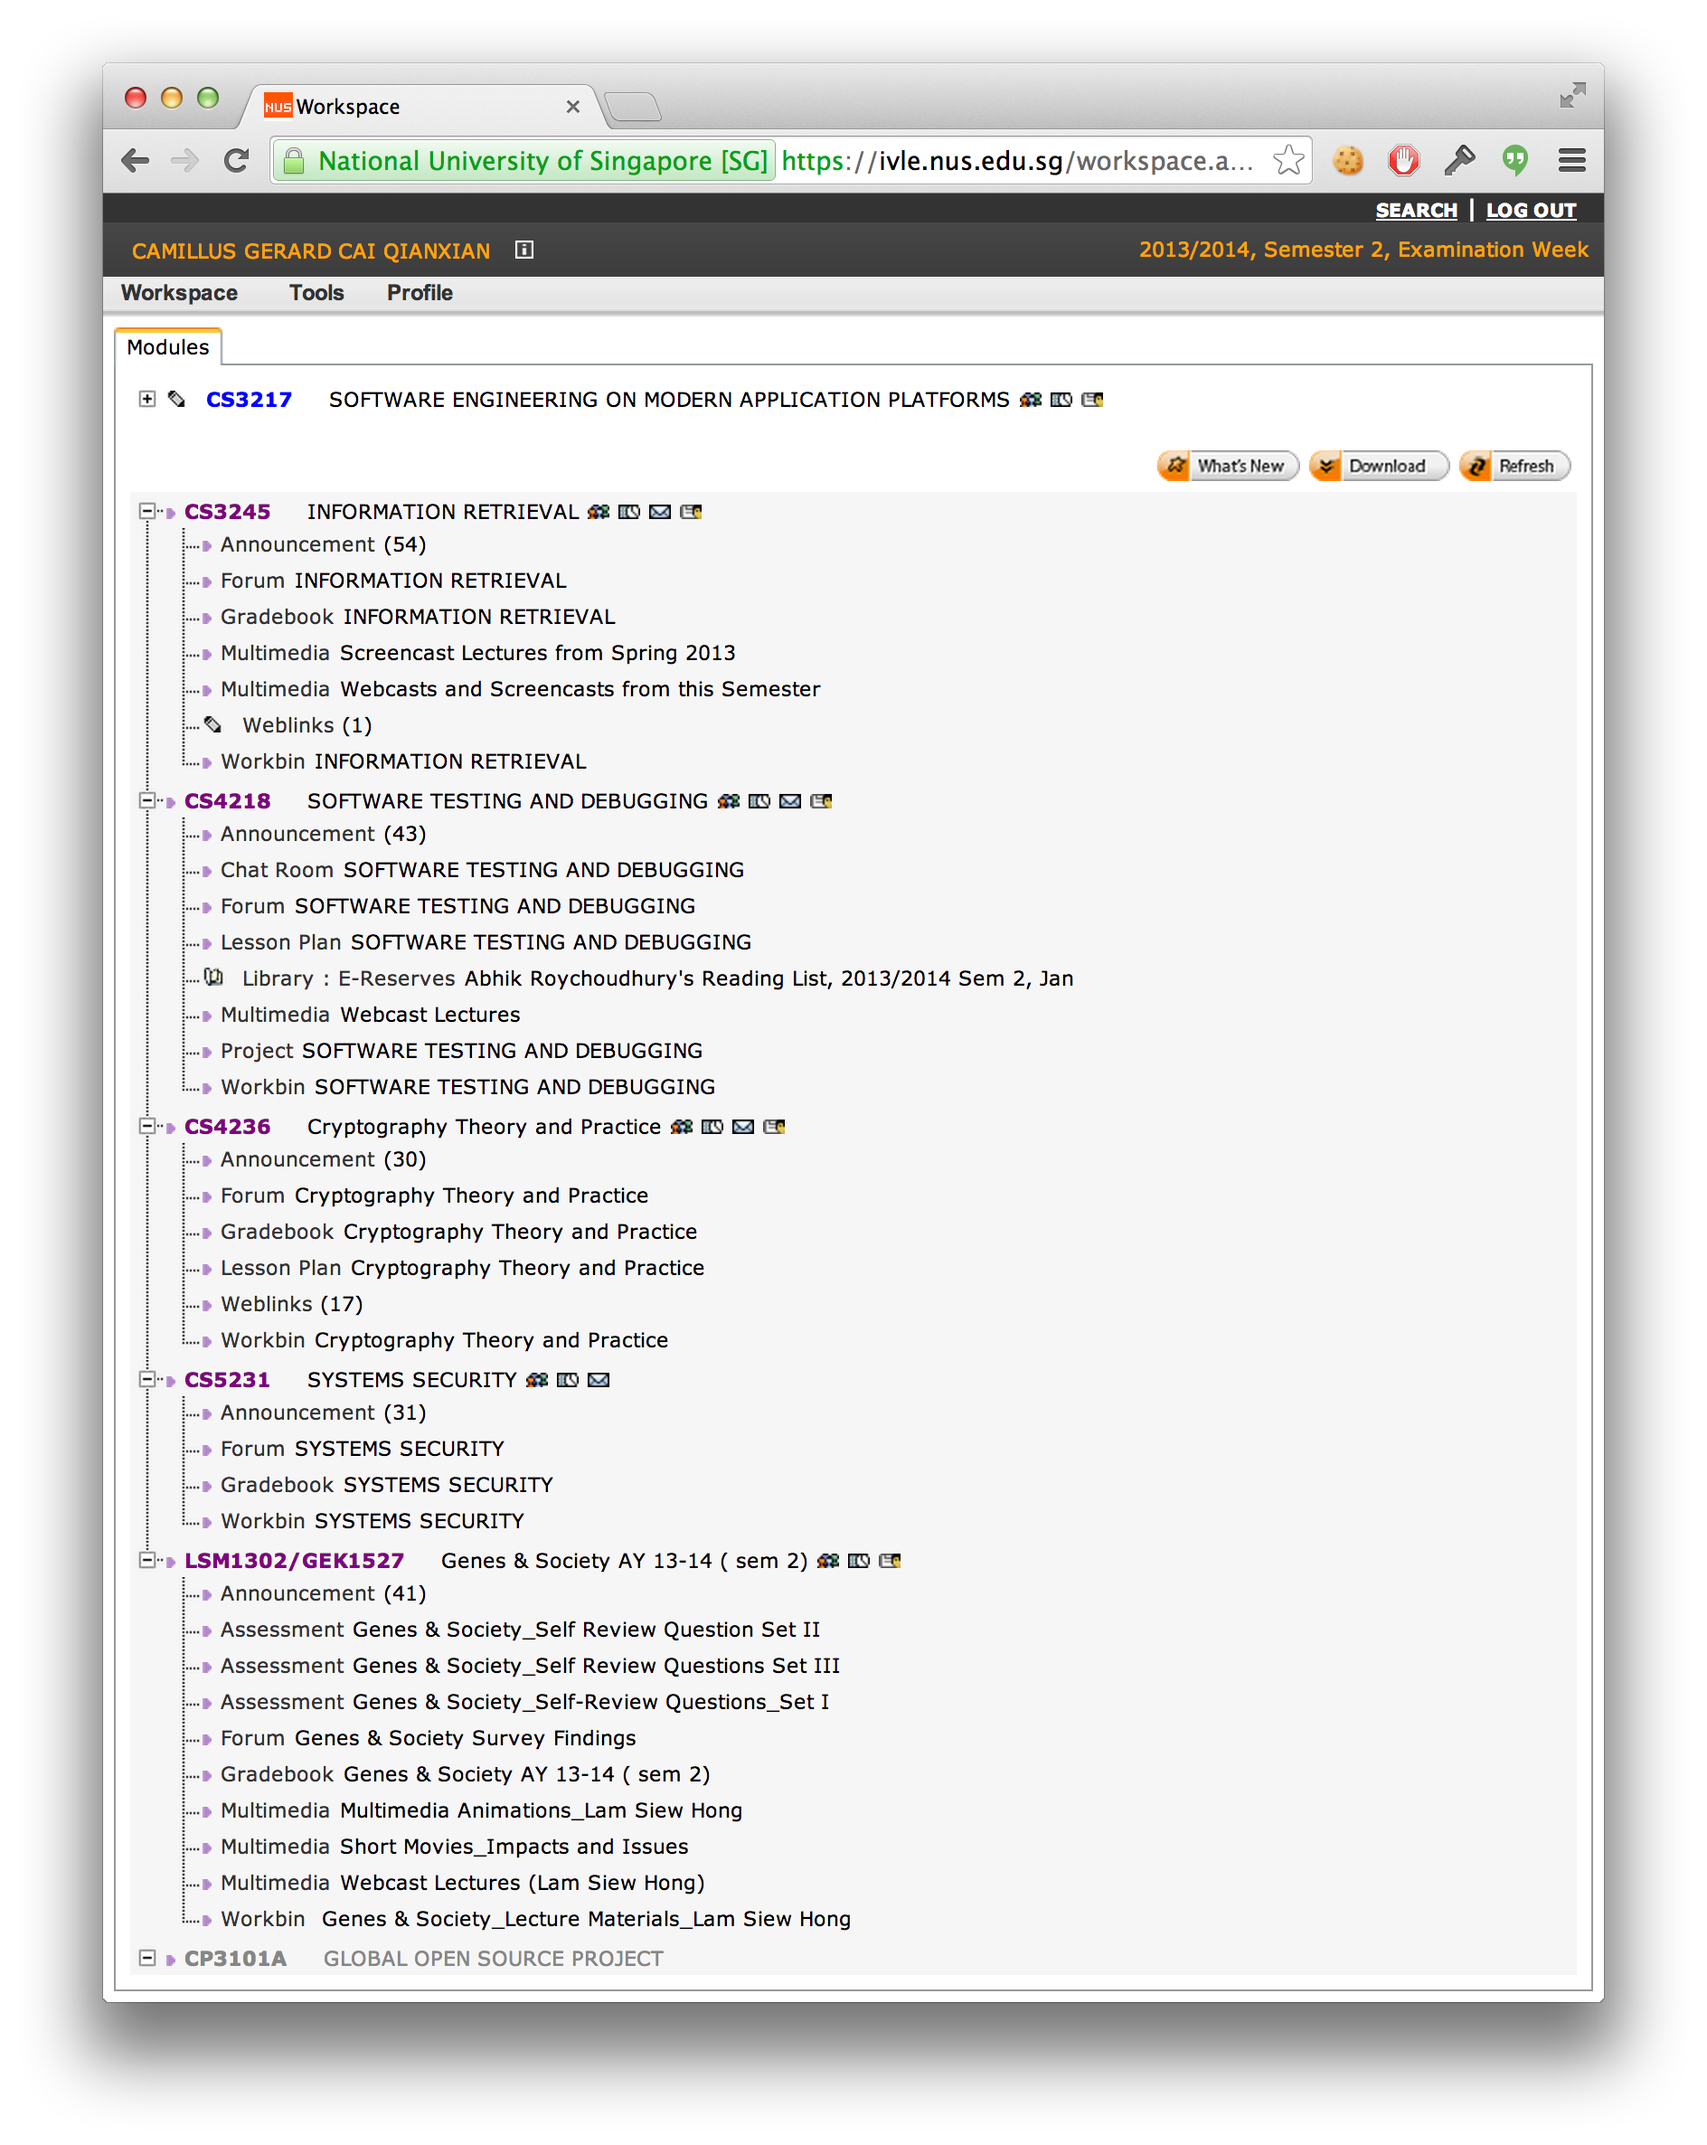
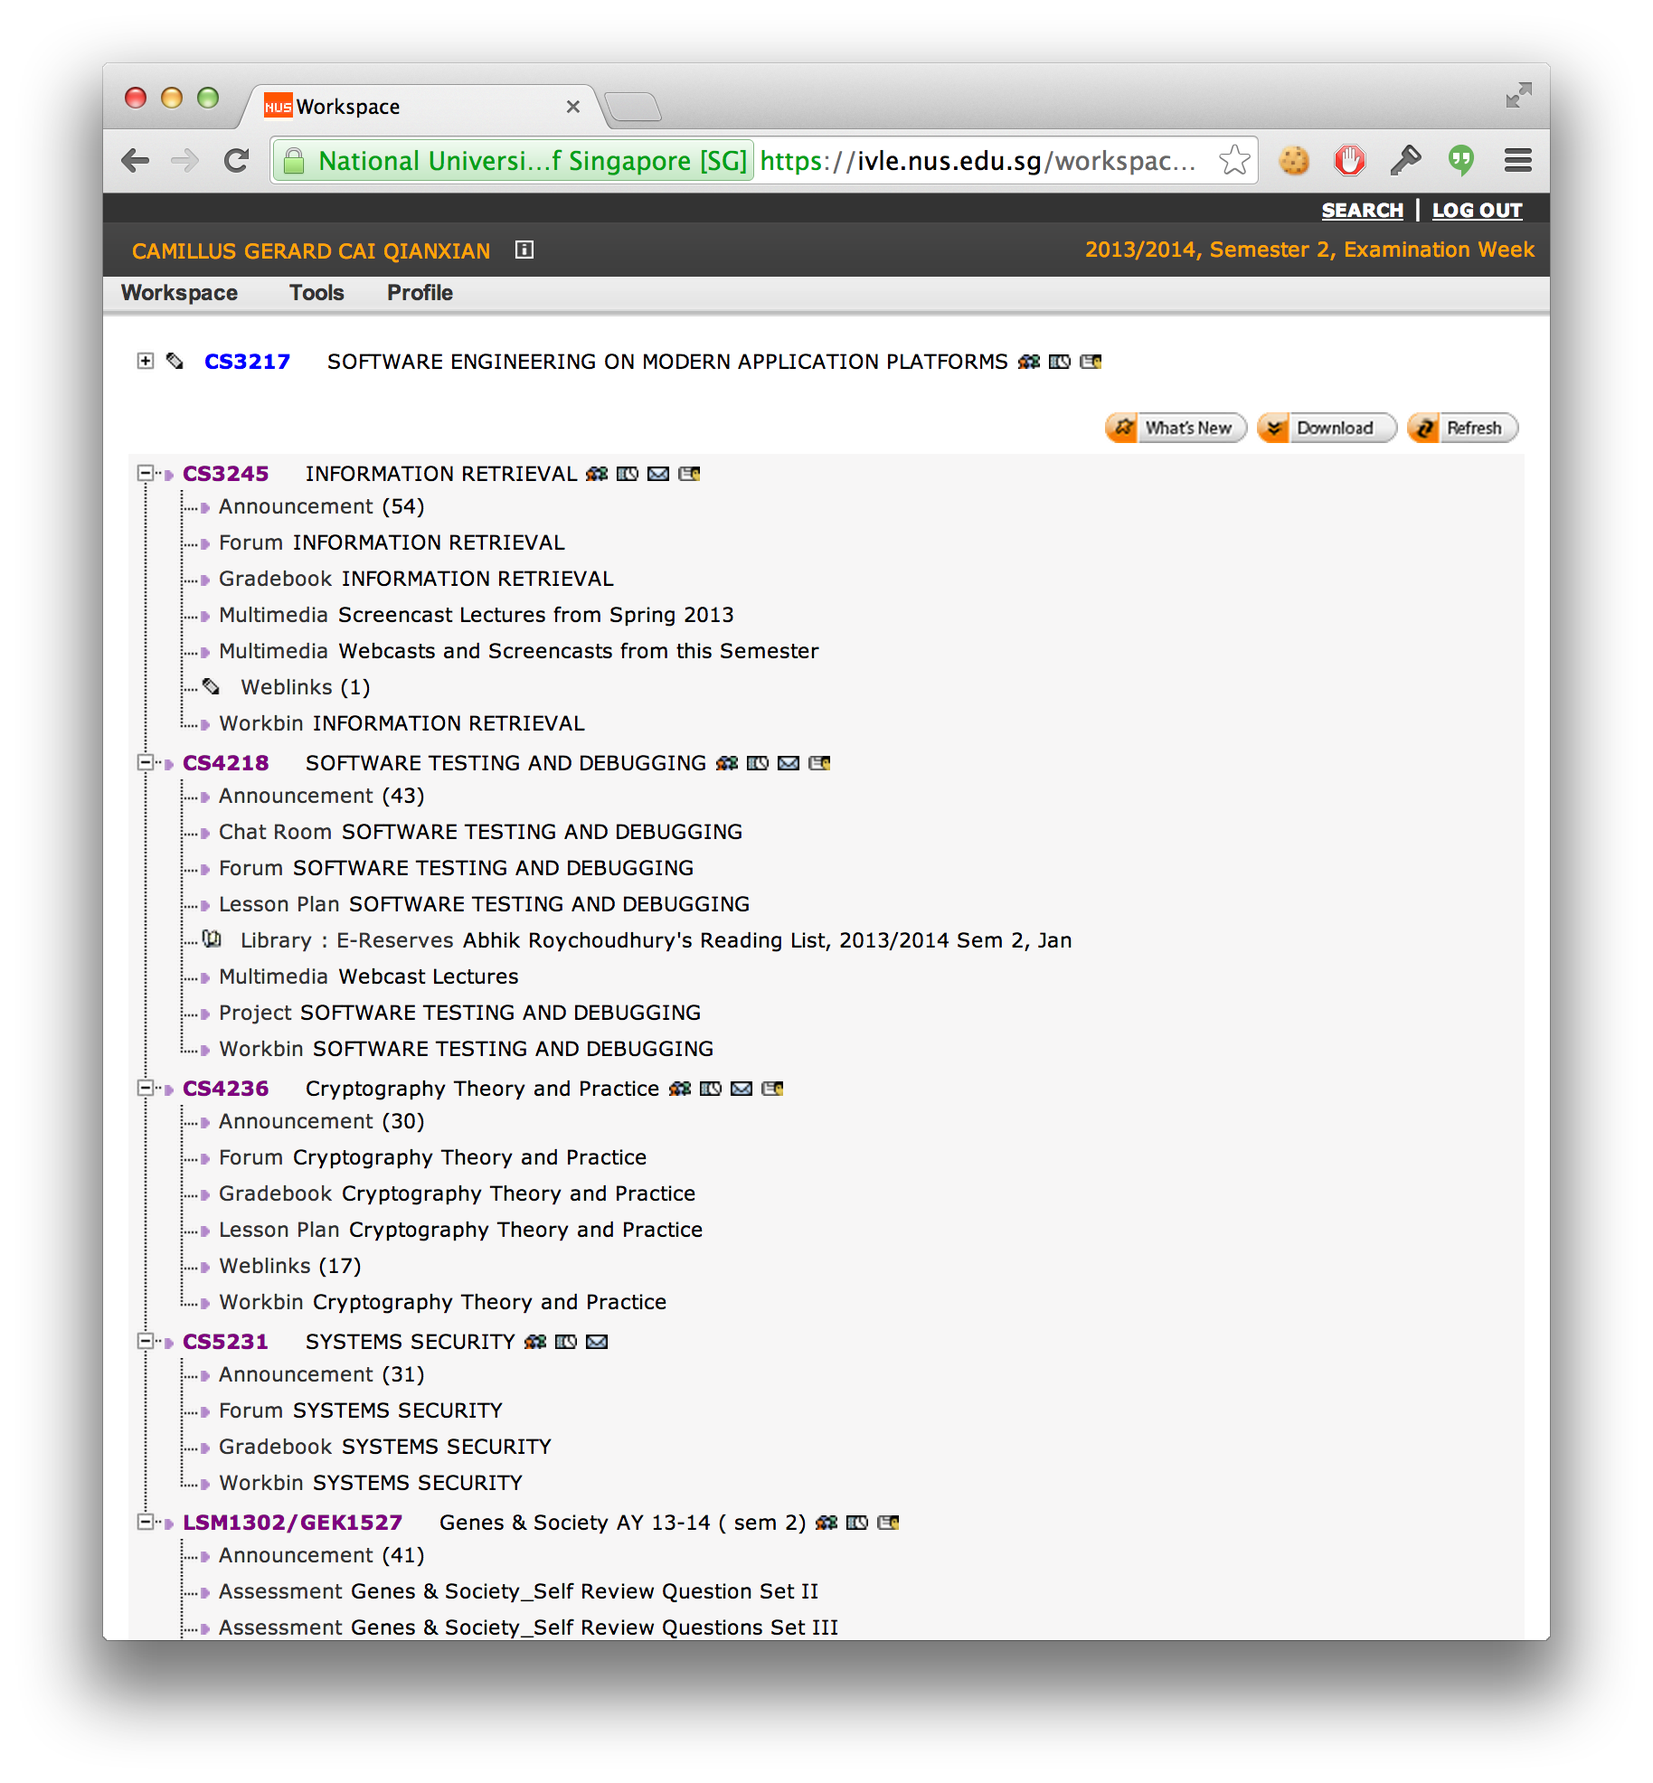
Hide tab control entirely, Remove border. Updated screenshot.

Changed region(s): [[0.0624, 0.0309, 0.9666, 0.9589]]

diff --git a/ivlemin.css b/ivlemin.css
@@ -25,11 +25,8 @@
  */
 #ctl00_ContentPlaceHolder1_ctl00_C3,
 
-/* Hide "Bookmarks" tab */
-#ctl00_ContentPlaceHolder1_ctl00_TC_TP_Bookmark_tab,
-
-/* Hide "Community" tab */
-#ctl00_ContentPlaceHolder1_ctl00_TC_TP_Communities_tab,
+/* Hide tab container */
+#ctl00_ContentPlaceHolder1_ctl00_TC_header,
 
 /* Hide "Resource Bank" menu item */
 #ctl00_TopMenun3,
@@ -52,4 +49,10 @@
 #ctl00_ContentPlaceHolder1_ctl00_TC_TP_Module_navTree > table > tbody > tr > td:nth-child(1)
 {
     display: none;
+}
+
+/* Remove border from modules */
+#ctl00_ContentPlaceHolder1_ctl00_TC_body
+{
+    border: 0px;
 }
